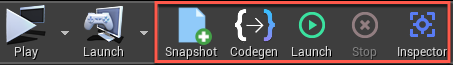
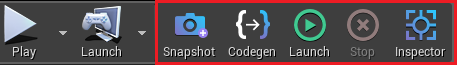
Docs/image updates (#282)
* updated images

* Updated docs

* Updates screenshots

diff --git a/docs/content/toolbar.md b/docs/content/toolbar.md
@@ -71,7 +71,7 @@ The toolbar settings are in **Edit** > **Project Settings** > **SpatialOS Unreal
     If enabled, shuts down running deployments when you close the Unreal Editor.
 
     * **Snapshot path**</br>
-    Use this to specify the filepath of your Unreal GDK snapshot. If you leave this left empty, it defaults to `<ProjectFileLocation>/../spatial/snapshots`.
+    Use this to specify the filepath of your Unreal GDK snapshot. If you leave this empty, it defaults to `<ProjectFileLocation>/../spatial/snapshots`.
 
     * **Snapshot file name**</br>
     Name of your SpatialOS Unreal GDK snapshot file.
@@ -79,10 +79,10 @@ The toolbar settings are in **Edit** > **Project Settings** > **SpatialOS Unreal
 * **Interop Codegen**
 
     * **Output path for the interop code generation**</br>
-    Use this to specify the filepath of ICG-generated typebindings file.  If you leave this left empty, it defaults to `<GameSourceDir>/<ProjectName>/Generated`.
+    Use this to specify the filepath of ICG-generated typebindings file.  If you leave this empty, it defaults to `<GameSourceDir>/<ProjectName>/Generated`.
 
     * **Output path for the generated schemas**</br>
-    Use this to specify the filepath of ICG-generated schema file.  If you leave this left empty, it defaults to `<ProjectFileLocation>/../spatial/schema/improbable/unreal/generated/`.
+    Use this to specify the filepath of ICG-generated schema file.  If you leave this empty, it defaults to `<ProjectFileLocation>/../spatial/schema/improbable/unreal/generated/`.
 
     * **Singleton classes**</br>
     Use this to specify the classes which the [ICG](./interop.md) should generate as singleton classes.
